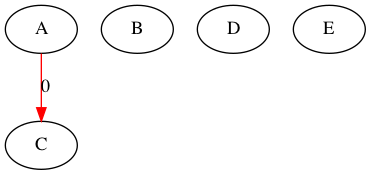
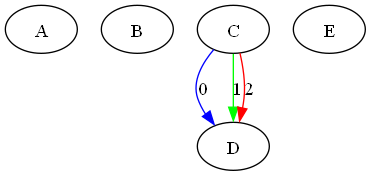
works for wavelengths that are powers of 2.

diff --git a/src/split_graph_dem_bdd.py b/src/split_graph_dem_bdd.py
@@ -377,66 +377,65 @@ class AddBlock():
 
                 rwa1.rwa = rwa1.rwa & rwa2.base.bdd.copy(f, rwa1.base.bdd)
                             
-            def get_assignments(bdd:_BDD, expr):
-                return list(bdd.pick_iter(expr))
+            # def get_assignments(bdd:_BDD, expr):
+            #     return list(bdd.pick_iter(expr))
 
-            print("Vi gør kar til at printe :P")
-            from draw_general import draw_assignment
-            import time
-            for i in range(1,10000): 
-                print("h")
-                assignments = get_assignments(rwa1.base.bdd, rwa1.rwa)
-                if len(assignments) < i:
-                    break
+            # print("Vi gør kar til at printe :P")
+            # from draw_general import draw_assignment
+            # import time
+            # for i in range(1,10000): 
+            #     print("h")
+            #     assignments = get_assignments(rwa1.base.bdd, rwa1.rwa)
+            #     if len(assignments) < i:
+            #         break
                 
-                draw_assignment(assignments[i-1], rwa1.base, G)
-                user_input = input("Enter something: ")        
+            #     draw_assignment(assignments[i-1], rwa1.base, G)
+            #     user_input = input("Enter something: ")        
 
 
 
 
 
-        exit()
         #Combine all of the solutions togethere to a single solution
-        things_to_and = {}
-        i = 0 
-        for rwa in rwa_list:
-            all_variables_to_exist = rwa.base.bdd.vars
-            variables_to_keep = []
-            for v in all_variables_to_exist: 
-                if "l" not in v: 
-                    variables_to_keep.append(v)
+        # things_to_and = {}
+        # i = 0 
+        # for rwa in rwa_list:
+        #     all_variables_to_exist = rwa.base.bdd.vars
+        #     variables_to_keep = []
+        #     for v in all_variables_to_exist: 
+        #         if "l" not in v: 
+        #             variables_to_keep.append(v)
 
-            things_to_and[i] = rwa.rwa.exist(*variables_to_keep)
-            i += 1
-            # print(self.base.bdd.to_expr(r))
-            # self.expr = self.expr & rwa.base.bdd.copy(r, self.base.bdd)
+        #     things_to_and[i] = rwa.rwa.exist(*variables_to_keep)
+        #     i += 1
+        #     # print(self.base.bdd.to_expr(r))
+        #     # self.expr = self.expr & rwa.base.bdd.copy(r, self.base.bdd)
 
-        for i, (andDict, rw) in enumerate(zip(things_to_and, rwa_list)):
-            for k, v in andDict.items():
-                if k == i:
-                    pass
+        # for i, (andDict, rw) in enumerate(zip(things_to_and, rwa_list)):
+        #     for k, v in andDict.items():
+        #         if k == i:
+        #             pass
                 
-                else:  
-                    rw.rwa = rw.rwa & v
-                    self.expr = self.expr | rw.rwa.rwa
+        #         else:  
+        #             rw.rwa = rw.rwa & v
+        #             self.expr = self.expr | rw.rwa.rwa
             
 
-        def get_assignments(bdd:_BDD, expr):
-            return list(bdd.pick_iter(expr))
+        # def get_assignments(bdd:_BDD, expr):
+        #     return list(bdd.pick_iter(expr))
 
-        print("Vi gør kar til at printe :P")
-        from draw_general import draw_assignment
-        import time
-        for i in range(1,10000): 
-            print("h")
-            assignments = get_assignments(self.base.bdd, self.expr)
-            print("hh")
-            if len(assignments) < i:
-                break
+        # print("Vi gør kar til at printe :P")
+        # from draw_general import draw_assignment
+        # import time
+        # for i in range(1,10000): 
+        #     print("h")
+        #     assignments = get_assignments(self.base.bdd, self.expr)
+        #     print("hh")
+        #     if len(assignments) < i:
+        #         break
             
-            draw_assignment(assignments[i-1], self.base, G)
-            user_input = input("Enter something: ")    
+        #     draw_assignment(assignments[i-1], self.base, G)
+        #     user_input = input("Enter something: ")    
                 
         # def find_edges_not_in_subgraphs(graph, subgraphs):
         #     # Create a set to store edges present in subgraphs
@@ -479,8 +478,8 @@ if __name__ == "__main__":
     import topology
     print("start_main")
     G = nx.MultiDiGraph(nx.nx_pydot.read_dot("../dot_examples/3NodeSPlitGraph.dot"))
-    G = topology.get_nx_graph(topology.TOPZOO_PATH +  "/Ai3.gml")
     G = nx.MultiDiGraph(nx.nx_pydot.read_dot("../dot_examples/split5NodeExample.dot"))
+    G = topology.get_nx_graph(topology.TOPZOO_PATH +  "/Ai3.gml")
 
     import topology
     if G.nodes.get("\\n") is not None:
@@ -495,11 +494,11 @@ if __name__ == "__main__":
         print("UNABLE TO SPLIT IT ")
         exit()
 
-    numOfDemands =6
-    oldDemands = topology.get_demands(G, numOfDemands, seed=2)
+    numOfDemands =5
 
     oldDemands = {0: Demand("A", "B"), 1:Demand("A","D"), 2:Demand("A","D") }
-    oldDemands = {0:Demand("A","D"), 1:Demand("E","D")}
+    oldDemands = {0:Demand("A","D"), 1:Demand("B","D"), 2: Demand("B","D"), 3:Demand("C","H")}
+    oldDemands = topology.get_demands(G, numOfDemands, seed=2)
     print("demands", oldDemands)
 
 
@@ -509,8 +508,7 @@ if __name__ == "__main__":
     types = [BDD.ET.EDGE, BDD.ET.LAMBDA, BDD.ET.NODE, BDD.ET.DEMAND, BDD.ET.TARGET, BDD.ET.PATH, BDD.ET.SOURCE]
     start_time = time.time()
     solutions = []  
-    wavelengths = 2
-    
+    wavelengths = 9
     
     print("Solve")
     for g in subgraphs: 
